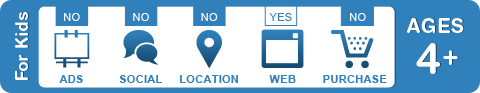
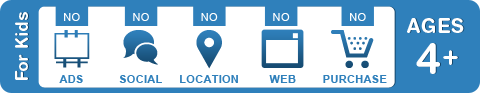
v1.3 Level 0 for early beginners, COPPA revised b/c website links removed

Changed region(s): [[0.5312, 0.0645, 0.625, 0.2796], [0.6875, 0.086, 0.7188, 0.2796]]

diff --git a/Make10App/web/about.html b/Make10App/web/about.html
@@ -40,11 +40,10 @@
             <h1>About us</h1>
             <p>
                 <ul>
-                    <li><a class="author" href="http://bsiegal.github.com">Bess Siegal</a> designed and developed Make 10+</a>.
-</li>
-                    <li><a class="author" href="http://www.yanceylabat.com/">Yancey Labat</a> created the artwork for Make 10+.</li>
-                    <li>Visit the <a class="author" href="http://bsiegal.github.com/Make10Plus"> Make 10+ website</a> for more information.</li>
-                    </ul>
+                    <li><span class="author">Bess Siegal</span>, programmer and mom, designed and developed Make 10+.</li>
+                    <li><span class="author">Yancey Labat</span>, illustrator of many children's books, created the artwork for Make 10+.</li>
+                    <li>For more information, visit the <span class="author">Make 10+ website</span> at <em class="url">http://bsiegal.github.com/<wbr/>Make10Plus</em>.</li>
+                </ul>
             </p>
 
             <h1>Rate it</h1>
@@ -56,13 +55,12 @@
             <p>
                 <img class="center" src="coppa.png"/>
                 <ul>
-                    <li>There are no ads, no connecting to social media, no sharing of location or personal information of any kind, and no extras to purchase.</li>
-                    <li>All links to the web are found on this About screen.</li>
+                    <li>There are no ads, no connecting to social media, no website links, no collecting or sharing of location or personal information of any kind, and no extras to purchase.</li>
                 </ul>
             </p>
                     
 			<p>
-				Version 1.2
+				Version 1.3
 			</p>
         </div>
     </body>

diff --git a/Make10App/web/make10.css b/Make10App/web/make10.css
@@ -54,7 +54,7 @@ li {
     margin-bottom: 0.5em;
 }
 
-a.author {
+.author {
     font-weight: bold;
     font-variant: small-caps;
 }

diff --git a/Make10App/SettingsLayer.m b/Make10App/SettingsLayer.m
@@ -109,15 +109,16 @@ CCSprite*          _home;
         /*
          * Starting level as a toggle
          */
+        CCMenuItemSprite* level0 = [Make10Util createToggleWithText:NSLocalizedString(@"Level 0", nil)];
         CCMenuItemSprite* level1 = [Make10Util createToggleWithText:NSLocalizedString(@"Level 1", nil)];
         CCMenuItemSprite* level2 = [Make10Util createToggleWithText:NSLocalizedString(@"Level 2", nil)];
         CCMenuItemSprite* level3 = [Make10Util createToggleWithText:NSLocalizedString(@"Level 3", nil)];
         CCMenuItemSprite* level4 = [Make10Util createToggleWithText:NSLocalizedString(@"Level 4", nil)];
         CCMenuItemSprite* level5 = [Make10Util createToggleWithText:NSLocalizedString(@"Level 5", nil)];
         
-        _levelToggle = [CCMenuItemToggle itemWithTarget:self selector:@selector(toggled:) items:level1, level2, level3, level4, level5, nil];
+        _levelToggle = [CCMenuItemToggle itemWithTarget:self selector:@selector(toggled:) items:level0, level1, level2, level3, level4, level5, nil];
         NSNumber* level = [defaults objectForKey:PREF_START_LEVEL];
-        [_levelToggle setSelectedIndex:[level intValue] - 1];
+        [_levelToggle setSelectedIndex:[level intValue]];
         
         /*
          * Operation as a toggle
@@ -199,7 +200,7 @@ CCSprite*          _home;
     if (toggle == _challengeToggle) {
         [defaults setInteger:[_challengeToggle selectedIndex] forKey:PREF_CHALLENGE_TYPE];
     } else if (toggle == _levelToggle) {
-        [defaults setInteger:[_levelToggle selectedIndex] + 1 forKey:PREF_START_LEVEL];
+        [defaults setInteger:[_levelToggle selectedIndex] forKey:PREF_START_LEVEL];
 //    } else if (toggle == _operationToggle) {
 //        [defaults setInteger:[_operationToggle selectedIndex] forKey:PREF_OPERATION];
     } else if (toggle == _styleToggle) {

diff --git a/Make10App/Score.m b/Make10App/Score.m
@@ -36,7 +36,18 @@
 
 -(void) initializeProperties {
     self.tilesRemoved = 0;
-    self.pointValue = self.level * 10;
+    if (self.level == 0) {
+        /*
+         * New 0 level added to be extra slow for early beginners 
+         */
+        self.pointValue = 10;
+        self.wallTime = BEGINNER_WALL_SPEED;
+        
+        NSLog(@"wallTime = %d", self.wallTime);
+        return;
+    } else {
+        self.pointValue = self.level * 10;
+    }
     /*
      * If speed challenge, then
      * speed increases with every level if the challenge type is speed

diff --git a/Make10App/Make10Util.h b/Make10App/Make10Util.h
@@ -42,6 +42,10 @@ static float const LAYER_TRANS_TIME = 0.5f;
 static float const SPRITE_SCALE_TIME = 0.1f;
 
 /**
+ * The duration between wall risings for new level of 0 (early beginner)
+ */
+static float const BEGINNER_WALL_SPEED = 40;
+/**
  * The duration between wall risings for level 1
  */
 static float const SLOWEST_WALL_SPEED = 20;
